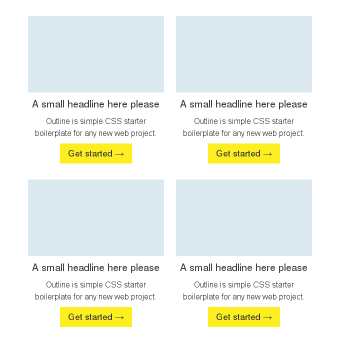
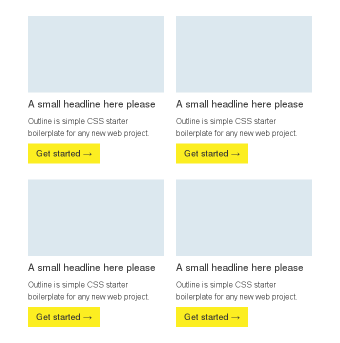
Four up gallery

diff --git a/templates/outline/template-outline.html b/templates/outline/template-outline.html
@@ -52,6 +52,8 @@
             threeUpTextBlock {label: One column text; properties: col1 col2 col3 showTitle=true showImages=true showButtons=true align=left;}
             fourUpTextBlock col1, fourUpTextBlock col2, fourUpTextBlock col3, fourUpTextBlock col4 {label: Column; properties: title text image button;}
             fourUpTextBlock {label: One column text; properties: col1 col2 col3 col4 showTitle=true showImages=true showButtons=true align=left;}
+            galleryFourUpBlock col1, galleryFourUpBlock col2, galleryFourUpBlock col3, galleryFourUpBlock col4 {label: Column; properties: title image button;}
+            galleryFourUpBlock {label: One column text; properties: col1 col2 col3 col4 showButtons=true;}
         }
     </style>
 </head>
@@ -920,6 +922,198 @@
   </tr>
 </table>
 <!-- /Four up button centre -->
+
+
+<!-- Gallery four up centre -->
+<table border="0" cellpadding="0" cellspacing="0" width="100%" data-ko-block="galleryFourUpBlock">
+  <tr>
+    <td style="padding: 32px 0 0 0;" bgcolor="#ffffff" align="center">
+      <table class="content-table" align="center" border="0" cellpadding="0" cellspacing="0" width="600">
+        <tr>
+          <td style="padding: 0 16px 0 16px;" align="center" valign="top">
+            <!-- Two column -->
+            <table border="0" cellpadding="0" cellspacing="0" width="100%">
+              <tr>
+                <td>
+                  <!-- content left -->
+                  <table class="content-table" border="0" cellpadding="0" cellspacing="0" width="48%" align="left">
+                    <tr>
+                      <td>
+                        <table border="0" cellpadding="0" cellspacing="0" width="100%">
+                          <tr>
+                            <td align="center">
+                              <a style="-ko-attr-href: @col1.button.url;" target="_blank">
+                                <img data-ko-editable="col1.image.src" style="display: block; font-family: Helvetica, Arial, sans-serif; color: #333333; font-size: 14px; width: 250px; height: 354px;" class="img-max" src="http://outlinemail.co.uk/img/gallery-placeholder.png" alt="Outline Mail" width="250" height="354" border="0">
+                              </a>
+                            </td>
+                          </tr>
+                          <tr>
+                            <td data-ko-editable="col1TitleText" style="padding: 8px 0 8px 0; color: #333333; font-family: Helvetica, Arial, sans-serif; font-size: 20px; font-weight: normal; line-height: 30px;" align="center">
+                              What a lovely picture
+                            </td>
+                          </tr>
+                          <tr data-ko-display="showButtons">
+                            <td style="padding: 0 0 32px 0;">
+                              <!-- Button -->
+                              <table align="center" border="0" cellspacing="0" cellpadding="0" width="100%">
+                                <tr>
+                                  <td align="center">
+                                    <table class="mobile-button-wrap" border="0" cellspacing="0" cellpadding="0">
+                                      <tr>
+                                        <td align="center">
+                                          <a class="mobile-button" data-ko-editable="col1ButtonText" style="-ko-attr-href: @col1.button.url; background-color: #fcee21; border-top: 8px solid #fcee21; border-right: 16px solid #fcee21; border-bottom: 8px solid #fcee21; border-left: 16px solid #fcee21; display: inline-block; color: #333333; font-family: Helvetica, Arial, sans-serif; font-size: 18px; font-weight: normal; line-height: 24px; text-decoration: none;" href="http://outlinemail.co.uk" target="_blank">Buy Now &#8594;</a>
+                                        </td>
+                                      </tr>
+                                    </table>
+                                  </td>
+                                </tr>
+                              </table>
+                              <!-- /Button -->
+                            </td>
+                          </tr>
+                        </table>
+                      </td>
+                    </tr>
+                  </table>
+                  <!-- /content left -->
+                  <!-- content right -->
+                  <table class="content-table" border="0" cellpadding="0" cellspacing="0" width="48%" align="right">
+                    <tr>
+                      <td>
+                        <table border="0" cellpadding="0" cellspacing="0" width="100%">
+                          <tr>
+                            <td align="center">
+                              <a style="-ko-attr-href: @col2.button.url;" target="_blank">
+                                <img data-ko-editable="col2.image.src" style="display: block; font-family: Helvetica, Arial, sans-serif; color: #333333; font-size: 14px; width: 250px; height: 354px;" class="img-max" src="http://outlinemail.co.uk/img/gallery-placeholder.png" alt="Outline Mail" width="250" height="354" border="0">
+                              </a>
+                            </td>
+                          </tr>
+                          <tr>
+                            <td data-ko-editable="col2TitleText" style="padding: 8px 0 8px 0; color: #333333; font-family: Helvetica, Arial, sans-serif; font-size: 20px; font-weight: normal; line-height: 30px;" align="center">
+                              What a lovely picture
+                            </td>
+                          </tr>
+                          <tr data-ko-display="showButtons">
+                            <td style="padding: 0 0 32px 0;">
+                              <!-- Button -->
+                              <table align="center" border="0" cellspacing="0" cellpadding="0" width="100%">
+                                <tr>
+                                  <td align="center">
+                                    <table class="mobile-button-wrap" border="0" cellspacing="0" cellpadding="0">
+                                      <tr>
+                                        <td align="center">
+                                          <a class="mobile-button" data-ko-editable="col2ButtonText" style="-ko-attr-href: @col2.button.url; background-color: #fcee21; border-top: 8px solid #fcee21; border-right: 16px solid #fcee21; border-bottom: 8px solid #fcee21; border-left: 16px solid #fcee21; display: inline-block; color: #333333; font-family: Helvetica, Arial, sans-serif; font-size: 18px; font-weight: normal; line-height: 24px; text-decoration: none;" href="http://outlinemail.co.uk" target="_blank">Buy Now &#8594;</a>
+                                        </td>
+                                      </tr>
+                                    </table>
+                                  </td>
+                                </tr>
+                              </table>
+                              <!-- /Button -->
+                            </td>
+                          </tr>
+                        </table>
+                      </td>
+                    </tr>
+                  </table>
+                  <!-- /content right -->
+                </td>
+              </tr>
+              <tr>
+                <td>
+                  <!-- content left -->
+                  <table class="content-table" border="0" cellpadding="0" cellspacing="0" width="48%" align="left">
+                    <tr>
+                      <td>
+                        <table border="0" cellpadding="0" cellspacing="0" width="100%">
+                          <tr>
+                            <td align="center">
+                              <a style="-ko-attr-href: @col3.button.url;" target="_blank">
+                                <img data-ko-editable="col3.image.src" style="display: block; font-family: Helvetica, Arial, sans-serif; color: #333333; font-size: 14px; width: 250px; height: 354px;" class="img-max" src="http://outlinemail.co.uk/img/gallery-placeholder.png" alt="Outline Mail" width="250" height="354" border="0">
+                              </a>
+                            </td>
+                          </tr>
+                          <tr>
+                            <td data-ko-editable="col3TitleText" style="padding: 8px 0 8px 0; color: #333333; font-family: Helvetica, Arial, sans-serif; font-size: 20px; font-weight: normal; line-height: 30px;" align="center">
+                              What a lovely picture
+                            </td>
+                          </tr>
+                          <tr data-ko-display="showButtons">
+                            <td style="padding: 0 0 32px 0;">
+                              <!-- Button -->
+                              <table align="center" border="0" cellspacing="0" cellpadding="0" width="100%">
+                                <tr>
+                                  <td align="center">
+                                    <table class="mobile-button-wrap" border="0" cellspacing="0" cellpadding="0">
+                                      <tr>
+                                        <td align="center">
+                                          <a class="mobile-button" data-ko-editable="col3ButtonText" style="-ko-attr-href: @col3.button.url; background-color: #fcee21; border-top: 8px solid #fcee21; border-right: 16px solid #fcee21; border-bottom: 8px solid #fcee21; border-left: 16px solid #fcee21; display: inline-block; color: #333333; font-family: Helvetica, Arial, sans-serif; font-size: 18px; font-weight: normal; line-height: 24px; text-decoration: none;" href="http://outlinemail.co.uk" target="_blank">Buy Now &#8594;</a>
+                                        </td>
+                                      </tr>
+                                    </table>
+                                  </td>
+                                </tr>
+                              </table>
+                              <!-- /Button -->
+                            </td>
+                          </tr>
+                        </table>
+                      </td>
+                    </tr>
+                  </table>
+                  <!-- /content left -->
+                  <!-- content right -->
+                  <table class="content-table" border="0" cellpadding="0" cellspacing="0" width="48%" align="right">
+                    <tr>
+                      <td>
+                        <table border="0" cellpadding="0" cellspacing="0" width="100%">
+                          <tr>
+                            <td align="center">
+                              <a style="-ko-attr-href: @col4.button.url;" target="_blank">
+                                <img data-ko-editable="col4.image.src" style="display: block; font-family: Helvetica, Arial, sans-serif; color: #333333; font-size: 14px; width: 250px; height: 354px;" class="img-max" src="http://outlinemail.co.uk/img/gallery-placeholder.png" alt="Outline Mail" width="250" height="354" border="0">
+                              </a>
+                            </td>
+                          </tr>
+                          <tr>
+                            <td data-ko-editable="col4TitleText" style="padding: 8px 0 8px 0; color: #333333; font-family: Helvetica, Arial, sans-serif; font-size: 20px; font-weight: normal; line-height: 30px;" align="center">
+                              What a lovely picture
+                            </td>
+                          </tr>
+                          <tr data-ko-display="showButtons">
+                            <td style="padding: 0 0 32px 0;">
+                              <!-- Button -->
+                              <table align="center" border="0" cellspacing="0" cellpadding="0" width="100%">
+                                <tr>
+                                  <td align="center">
+                                    <table class="mobile-button-wrap" border="0" cellspacing="0" cellpadding="0">
+                                      <tr>
+                                        <td align="center">
+                                          <a class="mobile-button" data-ko-editable="col4ButtonText" style="-ko-attr-href: @col4.button.url; background-color: #fcee21; border-top: 8px solid #fcee21; border-right: 16px solid #fcee21; border-bottom: 8px solid #fcee21; border-left: 16px solid #fcee21; display: inline-block; color: #333333; font-family: Helvetica, Arial, sans-serif; font-size: 18px; font-weight: normal; line-height: 24px; text-decoration: none;" href="http://outlinemail.co.uk" target="_blank">Buy Now &#8594;</a>
+                                        </td>
+                                      </tr>
+                                    </table>
+                                  </td>
+                                </tr>
+                              </table>
+                              <!-- /Button -->
+                            </td>
+                          </tr>
+                        </table>
+                      </td>
+                    </tr>
+                  </table>
+                  <!-- /content right -->
+                </td>
+              </tr>
+            </table>
+            <!-- /Two column -->
+          </td>
+        </tr>
+      </table>
+    </td>
+  </tr>
+</table>
+<!-- /Gallery four up centre -->
 
 
 
